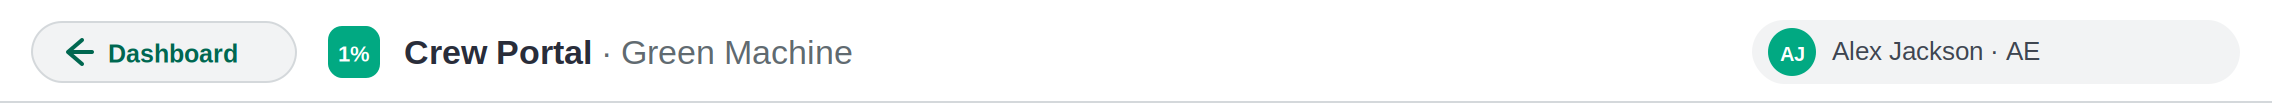
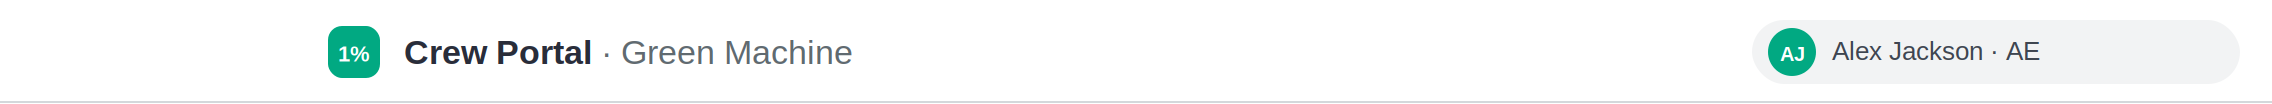
Add SVG back button, move opp Collect to portal OnVisible, lock Job Family
- imgBackBtn: SVG "< Dashboard" back button (secondary/ghost pill, nudging
  left-chevron) to match imgCrewPortalBtn; remove the back-pill drawn into
  imgPortalRibbon since the standalone button replaces it. Put btnBack.OnSelect
  on the image.
- Move the Crew Funnel Pack split/Collect (colCrewOpps) out of the dashboard
  button and into scrPortal.OnVisible, so it parses fresh every time the portal
  opens; btnCrewPortal.OnSelect now only arms the transition and navigates.
  Selection reset (varSelOpp/colSelLines) also moves to the portal OnVisible.
- Role is read from the 'Job Family' column; drop the "rename if different"
  hedge in code + README and state the requirement plainly.
- Generator/verifier/README updated (new back-button preview, control tables,
  data-flow note).

https://claude.ai/code/session_01DdeMXZuukHcxELz7zTeMNu

Changed region(s): [[0.0312, 0.4038, 0.125, 0.6058], [0.0, 0.7788, 0.125, 0.8077], [0.0, 0.2019, 0.125, 0.2308]]

diff --git a/powerapps-dashboard/_generate_previews.py b/powerapps-dashboard/_generate_previews.py
@@ -505,15 +505,27 @@ def portal_button_inner():
     return W, H, "".join(s)
 
 
+def back_button_inner():
+    """The '< Dashboard' back button on the Crew Portal ribbon (SVG, secondary/ghost)."""
+    W, H = 132, 30
+    s = [CSS,
+         "<style>.nudgeL{animation:nudgeL 2.2s ease-in-out infinite;transform-box:fill-box;transform-origin:center}"
+         "@keyframes nudgeL{0%,100%{transform:translateX(0)}50%{transform:translateX(-3px)}}"
+         "@media(prefers-reduced-motion:reduce){.nudgeL{animation:none}}</style>",
+         "<g class='fu'>"]
+    s.append(f"<rect x='1' y='1' width='130' height='28' rx='14' fill='{C['contrast']}' stroke='{C['border']}'/>")
+    s.append(f"<path d='M26,9 l-6,6 l6,6' fill='none' stroke='{C['greenDark']}' stroke-width='2' stroke-linecap='round' stroke-linejoin='round' class='nudgeL'/>")
+    s.append(f"<text x='40' y='16' font-family='{FONT}' font-size='12.5' font-weight='600' fill='{C['greenDark']}' dominant-baseline='central'>Dashboard</text>")
+    s.append("</g>")
+    return W, H, "".join(s)
+
+
 def portal_ribbon_inner(u):
     W, H = PAGE_W, RIB_H
     s = [DEFS, CSS, "<g class='fu'>"]
     s.append(f"<rect x='0' y='0' width='{W}' height='{H}' fill='{C['card']}'/>")
     s.append(f"<line x1='0' y1='{H-1}' x2='{W}' y2='{H-1}' stroke='{C['border']}'/>")
-    # back pill (a transparent btnBack sits over this in PowerApps)
-    s.append(f"<rect x='16' y='11' width='132' height='30' rx='15' fill='{C['contrast']}' stroke='{C['border']}'/>")
-    s.append(f"<path d='M34,26 l7,-6 m-7,6 l7,6 m-7,-6 h12' fill='none' stroke='{C['greenDark']}' stroke-width='2' stroke-linecap='round' stroke-linejoin='round'/>")
-    s.append(f"<text x='54' y='27' font-family='{FONT}' font-size='12.5' font-weight='600' fill='{C['greenDark']}' dominant-baseline='central'>Dashboard</text>")
+    # (the back button is a separate SVG control, imgBackBtn, placed at 16,11,132,30)
     # title
     s.append(f"<rect x='164' y='13' width='26' height='26' rx='7' fill='{C['brand']}'/>")
     s.append(f"<text x='177' y='27' font-family='{FONT}' font-size='11' font-weight='700' fill='#ffffff' text-anchor='middle' dominant-baseline='central'>1%</text>")
@@ -768,6 +780,7 @@ P_RIB = dict(ini="AJ", chip="Alex Jackson · AE", crew="Green Machine")
 
 # standalone portal component previews
 save("portal-button", wrap(*portal_button_inner()))
+save("portal-back-button", wrap(*back_button_inner()))
 save("portal-ribbon", wrap(*portal_ribbon_inner(P_RIB)))
 save("portal-cards", wrap(*crew_cards_inner(P_MEMBERS, "Alex Jackson"), bg=C['canvas']))
 save("portal-opp-row", wrap(*opp_row_inner(P_OPPS[0], selected=True)))
@@ -779,6 +792,7 @@ save("leaf-transition", wrap(*leafwipe_inner(static=True)))
 def page_portal(sel=None):
     s = [DEFS, f"<rect x='0' y='0' width='{PAGE_W}' height='{PAGE_H}' fill='{C['canvas']}'/>"]
     s.append(place(0, 0, PAGE_W, RIB_H, PAGE_W, RIB_H, portal_ribbon_inner(P_RIB)[2]))
+    s.append(place(16, 11, 132, 30, 132, 30, back_button_inner()[2]))
     s.append(place(*P_CARDS, P_CARDS[2], P_CARDS[3], crew_cards_inner(P_MEMBERS, "Alex Jackson")[2]))
     s.append(place(*P_HEAD, P_HEAD[2], P_HEAD[3], opp_header_inner(len(P_OPPS))[2]))
     for i, o in enumerate(P_OPPS):

diff --git a/powerapps-dashboard/README.md b/powerapps-dashboard/README.md
@@ -181,10 +181,8 @@ Collections built in `OnVisible`: `colMembers` → `colCrew` (ranked) → `colCr
 `colCrewBreak` (per‑crew category sums, for sponsor box + spectator), `colMyCrew` (viewer's crew,
 grid), plus the role / box / `varSvgCss` variables.
 
-> **Job role** — `colMembers` also carries `Role` (read from the **`Job Family`** column), used by
-> the Crew Portal cards (§8). If your column has a different name (e.g. `'Job Role'`), change the
-> one line in [`Screen_OnVisible.powerfx`](formulas/Screen_OnVisible.powerfx) and make sure the
-> field is in the visual's data well.
+> **Job role** — `colMembers` also carries `Role`, read from the **`Job Family`** column, used by
+> the Crew Portal cards (§8). Make sure `Job Family` is in the PowerApps visual's data well.
 
 ### Components
 | | |
@@ -255,10 +253,10 @@ the **full detail** of the opportunity you select.
 
 | Control | Screen | Type | Property | Formula |
 |---|---|---|---|---|
-| `imgCrewPortalBtn` | scrDashboard (ribbon) | Image | `Image` + `OnSelect` | SVG button [`imgCrewPortalBtn.Image.powerfx`](formulas/imgCrewPortalBtn.Image.powerfx); OnSelect = [`btnCrewPortal.OnSelect.powerfx`](formulas/btnCrewPortal.OnSelect.powerfx) — build `colCrewOpps`, arm transition, `Navigate(scrPortal)` |
-| **scrPortal** | — | Screen | `OnVisible` | [`Screen_Portal_OnVisible.powerfx`](formulas/Screen_Portal_OnVisible.powerfx) — builds `colCrewCards` / `colOpps` / `colPipe` |
+| `imgCrewPortalBtn` | scrDashboard (ribbon) | Image | `Image` + `OnSelect` | SVG button [`imgCrewPortalBtn.Image.powerfx`](formulas/imgCrewPortalBtn.Image.powerfx); OnSelect = [`btnCrewPortal.OnSelect.powerfx`](formulas/btnCrewPortal.OnSelect.powerfx) — arm transition, `Navigate(scrPortal)` |
+| **scrPortal** | — | Screen | `OnVisible` | [`Screen_Portal_OnVisible.powerfx`](formulas/Screen_Portal_OnVisible.powerfx) — **parses the pack into `colCrewOpps`** then builds `colOpps` / `colPipe` / `colCrewCards` |
 | `imgPortalRibbon` | scrPortal | Image | `Image` | [`imgPortalRibbon.Image.powerfx`](formulas/imgPortalRibbon.Image.powerfx) |
-| `btnBack` | scrPortal (ribbon) | Button | `OnSelect` | [`btnBack.OnSelect.powerfx`](formulas/btnBack.OnSelect.powerfx) — `Navigate(scrDashboard)` |
+| `imgBackBtn` | scrPortal (ribbon) | Image | `Image` + `OnSelect` | SVG button [`imgBackBtn.Image.powerfx`](formulas/imgBackBtn.Image.powerfx); OnSelect = [`btnBack.OnSelect.powerfx`](formulas/btnBack.OnSelect.powerfx) — `Navigate(scrDashboard)` |
 | `imgCrewCards` | scrPortal | Image | `Image` | [`imgCrewCards.Image.powerfx`](formulas/imgCrewCards.Image.powerfx) — roster cards |
 | `imgOppHeader` | scrPortal | Image | `Image` | [`imgOppHeader.Image.powerfx`](formulas/imgOppHeader.Image.powerfx) |
 | `galCrewOpps` | scrPortal | Gallery (blank vertical) | `Items` | `colOpps` |
@@ -276,7 +274,7 @@ Every Image: `ImagePosition = Fit` (except `imgLeafWipe` = **`Fill`**).
 | Control | X | Y | Width | Height | Visible |
 |---|---:|---:|---:|---:|---|
 | `imgPortalRibbon` | 0 | 0 | 1136 | 52 | `true` |
-| `btnBack` (transparent, over the back‑pill) | 16 | 11 | 132 | 30 | `true` |
+| `imgBackBtn` (SVG, OnSelect = back) | 16 | 11 | 132 | 30 | `true` |
 | `imgCrewCards` | 16 | 68 | 1104 | 150 | `true` |
 | `imgOppHeader` | 16 | 230 | 420 | 30 | `true` |
 | `galCrewOpps` | 16 | 262 | 420 | 362 | `true` |
@@ -300,10 +298,11 @@ rule — selecting an opp shows the detail and hides the overview; clearing it r
 
 ### 8.3 The opportunity data
 
-`btnCrewPortal.OnSelect` runs your exact pack‑parsing formula: it reads the signed‑in user's
-**`Crew Funnel Pack`** from the `Teams` source, splits it on `||` (rows) then `//` (columns), and
-`Collect`s `colCrewOpps` with `FunnelType · OppId · OppName · AccountName · ForecastCategory ·
-CloseDate · TotalValue · MemberName · OppUpdate`. `scrPortal.OnVisible` then turns that into:
+**`scrPortal.OnVisible`** runs your exact pack‑parsing formula (so it rebuilds every time the portal
+opens — the button just navigates): it reads the signed‑in user's **`Crew Funnel Pack`** from the
+`Teams` source, splits it on `||` (rows) then `//` (columns), and `Collect`s `colCrewOpps` with
+`FunnelType · OppId · OppName · AccountName · ForecastCategory · CloseDate · TotalValue ·
+MemberName · OppUpdate`. The same `OnVisible` then turns that into:
 
 ```
 colOpps   = colCrewOpps + a 0-based Idx           (list rows: stagger + selection)
@@ -356,7 +355,8 @@ replays the detail's entrance**, and clearing the selection **replays the pipeli
 
 | | |
 |---|---|
-| Crew Portal button (SVG) · Portal ribbon | ![portal button](previews/portal-button.png) ![portal ribbon](previews/portal-ribbon.png) |
+| Crew Portal button · Back button (SVG) | ![portal button](previews/portal-button.png) ![back button](previews/portal-back-button.png) |
+| Portal ribbon | ![portal ribbon](previews/portal-ribbon.png) |
 | Crew roster cards (viewer larger) | ![portal cards](previews/portal-cards.png) |
 | Opp row (selected) · Opp detail | ![opp row](previews/portal-opp-row.png) ![opp detail](previews/portal-opp-detail.png) |
 | Pipeline overview · Leaf‑wipe (mid‑sweep) | ![pipeline](previews/portal-pipeline.png) ![leaf](previews/leaf-transition.png) |
